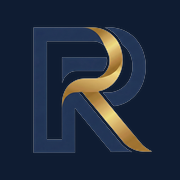
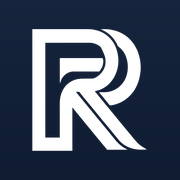
ファビコンを全面刷新（SVG優先・紺角丸バッジ×白マーク・16/32/48高品質ico）

diff --git a/recruit-security.html b/recruit-security.html
@@ -24,9 +24,10 @@
   <meta name="twitter:title" content="サイバーセキュリティコンサルタント募集 | R&R Partners 採用情報">
   <meta name="twitter:description" content="R&R Partnersのサイバーセキュリティコンサルタント募集。耐量子計算機暗号（PQC）移行とフロンティアAI対応を軸に、上流のセキュリティ戦略から移行の実行までを担うポジション。中途採用。セキュリティまたはIT領域の実務経験を持つ方を歓迎します。">
   <!-- Favicon & Theme -->
-  <link rel="icon" type="image/x-icon" href="favicon.ico">
-  <link rel="icon" type="image/png" sizes="512x512" href="favicon.png">
-  <link rel="apple-touch-icon" href="apple-touch-icon.png">
+  <link rel="icon" href="favicon.svg?v=2" type="image/svg+xml">
+  <link rel="icon" href="favicon.ico?v=2" sizes="48x48">
+  <link rel="icon" type="image/png" sizes="32x32" href="favicon-32.png?v=2">
+  <link rel="apple-touch-icon" href="apple-touch-icon.png?v=2">
   <meta name="theme-color" content="#0f1c32">
   <meta name="format-detection" content="telephone=no">
   <meta name="google-site-verification" content="3vnf7zqEFpAYxweYhKixLRJDRggjitPvmbaVqSw4yTQ" />

diff --git a/about.html b/about.html
@@ -24,9 +24,10 @@
   <meta name="twitter:title" content="私たちの役割・事業領域 | R&R Partners - セキュリティコンサルティング・経営コンサルティング">
   <meta name="twitter:description" content="R&R Partnersの事業領域。セキュリティコンサルティング、経営コンサルティング、研修事業（Monopole）、AI駆動組織構築、AIプロダクト、メディア事業（R&R SIGNAL）の6つの領域でお客様の成果にコミットします。">
   <!-- Favicon & Theme -->
-  <link rel="icon" type="image/x-icon" href="favicon.ico">
-  <link rel="icon" type="image/png" sizes="512x512" href="favicon.png">
-  <link rel="apple-touch-icon" href="apple-touch-icon.png">
+  <link rel="icon" href="favicon.svg?v=2" type="image/svg+xml">
+  <link rel="icon" href="favicon.ico?v=2" sizes="48x48">
+  <link rel="icon" type="image/png" sizes="32x32" href="favicon-32.png?v=2">
+  <link rel="apple-touch-icon" href="apple-touch-icon.png?v=2">
   <meta name="theme-color" content="#0f1c32">
   <meta name="format-detection" content="telephone=no">
   <meta name="google-site-verification" content="3vnf7zqEFpAYxweYhKixLRJDRggjitPvmbaVqSw4yTQ" />

diff --git a/company.html b/company.html
@@ -24,9 +24,10 @@
   <meta name="twitter:title" content="会社概要 | R&R Partners - 経営コンサルティング・AI駆動組織構築">
   <meta name="twitter:description" content="R&R Partners株式会社の会社概要。東京都中央区日本橋に本社を構え、サイバーセキュリティコンサルティングと経営コンサルティング（AX推進）を中核に、6つの事業を展開。代表取締役 柳澤翔平。令和7年設立。">
   <!-- Favicon & Theme -->
-  <link rel="icon" type="image/x-icon" href="favicon.ico">
-  <link rel="icon" type="image/png" sizes="512x512" href="favicon.png">
-  <link rel="apple-touch-icon" href="apple-touch-icon.png">
+  <link rel="icon" href="favicon.svg?v=2" type="image/svg+xml">
+  <link rel="icon" href="favicon.ico?v=2" sizes="48x48">
+  <link rel="icon" type="image/png" sizes="32x32" href="favicon-32.png?v=2">
+  <link rel="apple-touch-icon" href="apple-touch-icon.png?v=2">
   <meta name="theme-color" content="#0f1c32">
   <meta name="format-detection" content="telephone=no">
   <meta name="google-site-verification" content="3vnf7zqEFpAYxweYhKixLRJDRggjitPvmbaVqSw4yTQ" />

diff --git a/service-security.html b/service-security.html
@@ -24,9 +24,10 @@
   <meta name="twitter:title" content="セキュリティコンサルティング | R&R Partners">
   <meta name="twitter:description" content="サイバーセキュリティに特化した上流コンサルティング。公的機関の大規模プロジェクトにも参画する耐量子計算機暗号（PQC）移行と、フロンティアAI対応を中核に、戦略・方針策定から移行の完遂までを主導します。">
   <!-- Favicon & Theme -->
-  <link rel="icon" type="image/x-icon" href="favicon.ico">
-  <link rel="icon" type="image/png" sizes="512x512" href="favicon.png">
-  <link rel="apple-touch-icon" href="apple-touch-icon.png">
+  <link rel="icon" href="favicon.svg?v=2" type="image/svg+xml">
+  <link rel="icon" href="favicon.ico?v=2" sizes="48x48">
+  <link rel="icon" type="image/png" sizes="32x32" href="favicon-32.png?v=2">
+  <link rel="apple-touch-icon" href="apple-touch-icon.png?v=2">
   <meta name="theme-color" content="#0f1c32">
   <meta name="format-detection" content="telephone=no">
   <meta name="google-site-verification" content="3vnf7zqEFpAYxweYhKixLRJDRggjitPvmbaVqSw4yTQ" />

diff --git a/index.html b/index.html
@@ -25,9 +25,10 @@
   <meta name="twitter:title" content="R&R Partners Inc.">
   <meta name="twitter:description" content="セキュリティを起点に、真摯な挑戦が輝く舞台を実装する。R&R Partners株式会社はセキュリティコンサルティング・経営コンサルティング・研修事業・AI駆動組織構築・AIプロダクト・メディア事業を手がけるコンサルティングファームです。">
   <!-- Favicon & Theme -->
-  <link rel="icon" type="image/x-icon" href="favicon.ico">
-  <link rel="icon" type="image/png" sizes="512x512" href="favicon.png">
-  <link rel="apple-touch-icon" href="apple-touch-icon.png">
+  <link rel="icon" href="favicon.svg?v=2" type="image/svg+xml">
+  <link rel="icon" href="favicon.ico?v=2" sizes="48x48">
+  <link rel="icon" type="image/png" sizes="32x32" href="favicon-32.png?v=2">
+  <link rel="apple-touch-icon" href="apple-touch-icon.png?v=2">
   <meta name="theme-color" content="#0f1c32">
   <meta name="format-detection" content="telephone=no">
   <meta name="google-site-verification" content="3vnf7zqEFpAYxweYhKixLRJDRggjitPvmbaVqSw4yTQ" />

diff --git a/service-consulting.html b/service-consulting.html
@@ -24,9 +24,10 @@
   <meta name="twitter:title" content="経営コンサルティング・AXコンサルティング | R&R Partners">
   <meta name="twitter:description" content="戦略策定からAX（AIトランスフォーメーション）の実装まで、成果が出るまでやり切る伴走型コンサルティング。お客様と直接向き合い、経営戦略・事業戦略・AX推進を一気通貫で支援します。">
   <!-- Favicon & Theme -->
-  <link rel="icon" type="image/x-icon" href="favicon.ico">
-  <link rel="icon" type="image/png" sizes="512x512" href="favicon.png">
-  <link rel="apple-touch-icon" href="apple-touch-icon.png">
+  <link rel="icon" href="favicon.svg?v=2" type="image/svg+xml">
+  <link rel="icon" href="favicon.ico?v=2" sizes="48x48">
+  <link rel="icon" type="image/png" sizes="32x32" href="favicon-32.png?v=2">
+  <link rel="apple-touch-icon" href="apple-touch-icon.png?v=2">
   <meta name="theme-color" content="#0f1c32">
   <meta name="format-detection" content="telephone=no">
   <meta name="google-site-verification" content="3vnf7zqEFpAYxweYhKixLRJDRggjitPvmbaVqSw4yTQ" />

diff --git a/contact.html b/contact.html
@@ -24,9 +24,10 @@
   <meta name="twitter:title" content="お問い合わせ | R&R Partners - 経営コンサルティング・AI駆動組織構築">
   <meta name="twitter:description" content="R&R Partnersへのお問い合わせページ。セキュリティコンサルティング・経営コンサルティングをはじめとする各事業に関するご相談はこちらから。2営業日以内にご連絡いたします。">
   <!-- Favicon & Theme -->
-  <link rel="icon" type="image/x-icon" href="favicon.ico">
-  <link rel="icon" type="image/png" sizes="512x512" href="favicon.png">
-  <link rel="apple-touch-icon" href="apple-touch-icon.png">
+  <link rel="icon" href="favicon.svg?v=2" type="image/svg+xml">
+  <link rel="icon" href="favicon.ico?v=2" sizes="48x48">
+  <link rel="icon" type="image/png" sizes="32x32" href="favicon-32.png?v=2">
+  <link rel="apple-touch-icon" href="apple-touch-icon.png?v=2">
   <meta name="theme-color" content="#0f1c32">
   <meta name="format-detection" content="telephone=no">
   <meta name="google-site-verification" content="3vnf7zqEFpAYxweYhKixLRJDRggjitPvmbaVqSw4yTQ" />

diff --git a/service-ai.html b/service-ai.html
@@ -24,9 +24,10 @@
   <meta name="twitter:title" content="AI駆動組織構築支援 | R&R Partners - AIドリブン組織変革">
   <meta name="twitter:description" content="既存業務のAI化ではなく、組織構造そのものをAIドリブンで再構築。経営と開発の両現場からPoCを実施し、段階的にスケール、既存組織との融合を実現するAI駆動組織構築支援サービス。">
   <!-- Favicon & Theme -->
-  <link rel="icon" type="image/x-icon" href="favicon.ico">
-  <link rel="icon" type="image/png" sizes="512x512" href="favicon.png">
-  <link rel="apple-touch-icon" href="apple-touch-icon.png">
+  <link rel="icon" href="favicon.svg?v=2" type="image/svg+xml">
+  <link rel="icon" href="favicon.ico?v=2" sizes="48x48">
+  <link rel="icon" type="image/png" sizes="32x32" href="favicon-32.png?v=2">
+  <link rel="apple-touch-icon" href="apple-touch-icon.png?v=2">
   <meta name="theme-color" content="#0f1c32">
   <meta name="format-detection" content="telephone=no">
   <meta name="google-site-verification" content="3vnf7zqEFpAYxweYhKixLRJDRggjitPvmbaVqSw4yTQ" />

diff --git a/recruit.html b/recruit.html
@@ -24,9 +24,10 @@
   <meta name="twitter:title" content="採用情報 | R&R Partners - 経営コンサルティング・AI駆動組織構築">
   <meta name="twitter:description" content="R&R Partnersの採用情報。サイバーセキュリティコンサルタント、経営コンサルタントを募集中。真摯な努力が正当に報われる環境で共に未来を創りましょう。">
   <!-- Favicon & Theme -->
-  <link rel="icon" type="image/x-icon" href="favicon.ico">
-  <link rel="icon" type="image/png" sizes="512x512" href="favicon.png">
-  <link rel="apple-touch-icon" href="apple-touch-icon.png">
+  <link rel="icon" href="favicon.svg?v=2" type="image/svg+xml">
+  <link rel="icon" href="favicon.ico?v=2" sizes="48x48">
+  <link rel="icon" type="image/png" sizes="32x32" href="favicon-32.png?v=2">
+  <link rel="apple-touch-icon" href="apple-touch-icon.png?v=2">
   <meta name="theme-color" content="#0f1c32">
   <meta name="format-detection" content="telephone=no">
   <meta name="google-site-verification" content="3vnf7zqEFpAYxweYhKixLRJDRggjitPvmbaVqSw4yTQ" />

diff --git a/recruit-consultant.html b/recruit-consultant.html
@@ -24,9 +24,10 @@
   <meta name="twitter:title" content="経営コンサルタント募集 | R&R Partners 採用情報">
   <meta name="twitter:description" content="R&R Partnersの経営コンサルタント募集。戦略策定から実装まで一気通貫の伴走型コンサルティングに携わるポジション。新卒・中途歓迎。">
   <!-- Favicon & Theme -->
-  <link rel="icon" type="image/x-icon" href="favicon.ico">
-  <link rel="icon" type="image/png" sizes="512x512" href="favicon.png">
-  <link rel="apple-touch-icon" href="apple-touch-icon.png">
+  <link rel="icon" href="favicon.svg?v=2" type="image/svg+xml">
+  <link rel="icon" href="favicon.ico?v=2" sizes="48x48">
+  <link rel="icon" type="image/png" sizes="32x32" href="favicon-32.png?v=2">
+  <link rel="apple-touch-icon" href="apple-touch-icon.png?v=2">
   <meta name="theme-color" content="#0f1c32">
   <meta name="format-detection" content="telephone=no">
   <meta name="google-site-verification" content="3vnf7zqEFpAYxweYhKixLRJDRggjitPvmbaVqSw4yTQ" />

diff --git a/privacy.html b/privacy.html
@@ -20,9 +20,10 @@
   <meta name="twitter:card" content="summary_large_image">
   <meta name="twitter:title" content="プライバシーポリシー | R&R Partners">
   <meta name="twitter:description" content="R&R Partners株式会社のプライバシーポリシー。個人情報の取扱いに関する方針を掲載しています。">
-  <link rel="icon" type="image/x-icon" href="favicon.ico">
-  <link rel="icon" type="image/png" sizes="512x512" href="favicon.png">
-  <link rel="apple-touch-icon" href="apple-touch-icon.png">
+  <link rel="icon" href="favicon.svg?v=2" type="image/svg+xml">
+  <link rel="icon" href="favicon.ico?v=2" sizes="48x48">
+  <link rel="icon" type="image/png" sizes="32x32" href="favicon-32.png?v=2">
+  <link rel="apple-touch-icon" href="apple-touch-icon.png?v=2">
   <meta name="theme-color" content="#0f1c32">
   <meta name="format-detection" content="telephone=no">
   <meta name="google-site-verification" content="3vnf7zqEFpAYxweYhKixLRJDRggjitPvmbaVqSw4yTQ" />

diff --git a/thanks.html b/thanks.html
@@ -8,9 +8,10 @@
   <link rel="preconnect" href="https://fonts.gstatic.com" crossorigin>
   <link href="https://fonts.googleapis.com/css2?family=Noto+Sans+JP:wght@300;400;500;700&family=Inter:wght@300;400;500;600;700&display=swap" rel="stylesheet">
   <link rel="stylesheet" href="style.css">
-  <link rel="icon" type="image/x-icon" href="favicon.ico">
-  <link rel="icon" type="image/png" sizes="512x512" href="favicon.png">
-  <link rel="apple-touch-icon" href="apple-touch-icon.png">
+  <link rel="icon" href="favicon.svg?v=2" type="image/svg+xml">
+  <link rel="icon" href="favicon.ico?v=2" sizes="48x48">
+  <link rel="icon" type="image/png" sizes="32x32" href="favicon-32.png?v=2">
+  <link rel="apple-touch-icon" href="apple-touch-icon.png?v=2">
   <meta name="theme-color" content="#0f1c32">
   <meta name="robots" content="noindex">
 </head>
